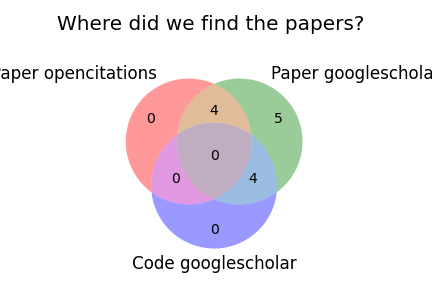
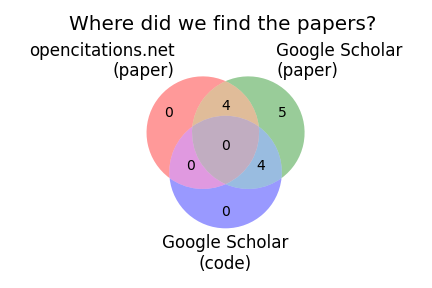
fix figure labels

Changed region(s): [[0.0, 0.0312, 1.0, 0.9688], [0.6921, 0.5312, 0.7222, 0.5625]]

diff --git a/src/visualization/visualize_manual_data.py b/src/visualization/visualize_manual_data.py
@@ -45,13 +45,13 @@ df.head(2)
 # ## Looking at features of papers that might help us find them automatically
 # Here, we look at whether papers contain a diversity statement, and whether they cite the code and/or the original paper. This way, we can get an idea of how to make an automatic search that would find all relevant papers. 
 
-def venn_of_df(df):
+def venn_of_df(df, labels):
     subsets = []
     for col in df.columns:
         s = set(df.index[df[col] > 0].tolist())
         subsets.append(s)
 
-    labels = [label.replace('_', ' ').capitalize() for label in df.columns]
+    #labels = [label.replace('_', ' ').capitalize() for label in df.columns]
 
     v = venn3_unweighted(subsets, set_labels=labels)
     areas = (1, 1, 1, 1, 1, 1, 1)
@@ -64,9 +64,9 @@ def venn_of_df(df):
 matplotlib.rc('font', **{'size': 14})
 
 cols = ['paper_citation', 'code_citation', 'diversity_statement']
-venn_of_df(df[cols])
-plt.title('Papers containing a diversity statement, \n' +\
-          'a citation of the paper and/or a citation of the code', fontsize=20)
+labels = [label.replace('_', ' ').capitalize() for label in cols]
+venn_of_df(df[cols], labels=labels)
+plt.title('Counts of papers found that contain...', fontsize=20)
 plt.tight_layout()
 plt.savefig('../../reports/figures/venn_diagram_content.png')
 # -
@@ -84,7 +84,10 @@ matplotlib.rc('font', **{'size': 14})
 cols = ['paper_opencitations',
  'paper_googlescholar',
  'code_googlescholar']
-venn_of_df(df[cols])
+labels = ['opencitations.net\n(paper)',
+          'Google Scholar\n(paper)',
+          'Google Scholar\n(code)']
+venn_of_df(df[cols], labels=labels)
 plt.title('Where did we find the papers? \n', fontsize=20)
 plt.tight_layout()
 plt.savefig('../../reports/figures/venn_diagram_sources.png')
@@ -222,6 +225,3 @@ plt.hlines(y=0, xmin=0, xmax=5)
 
 plt.tight_layout()
 plt.savefig('../../reports/figures/violinplot_percentage_diffs_from_benchmarks.png')
-# -
-
-
